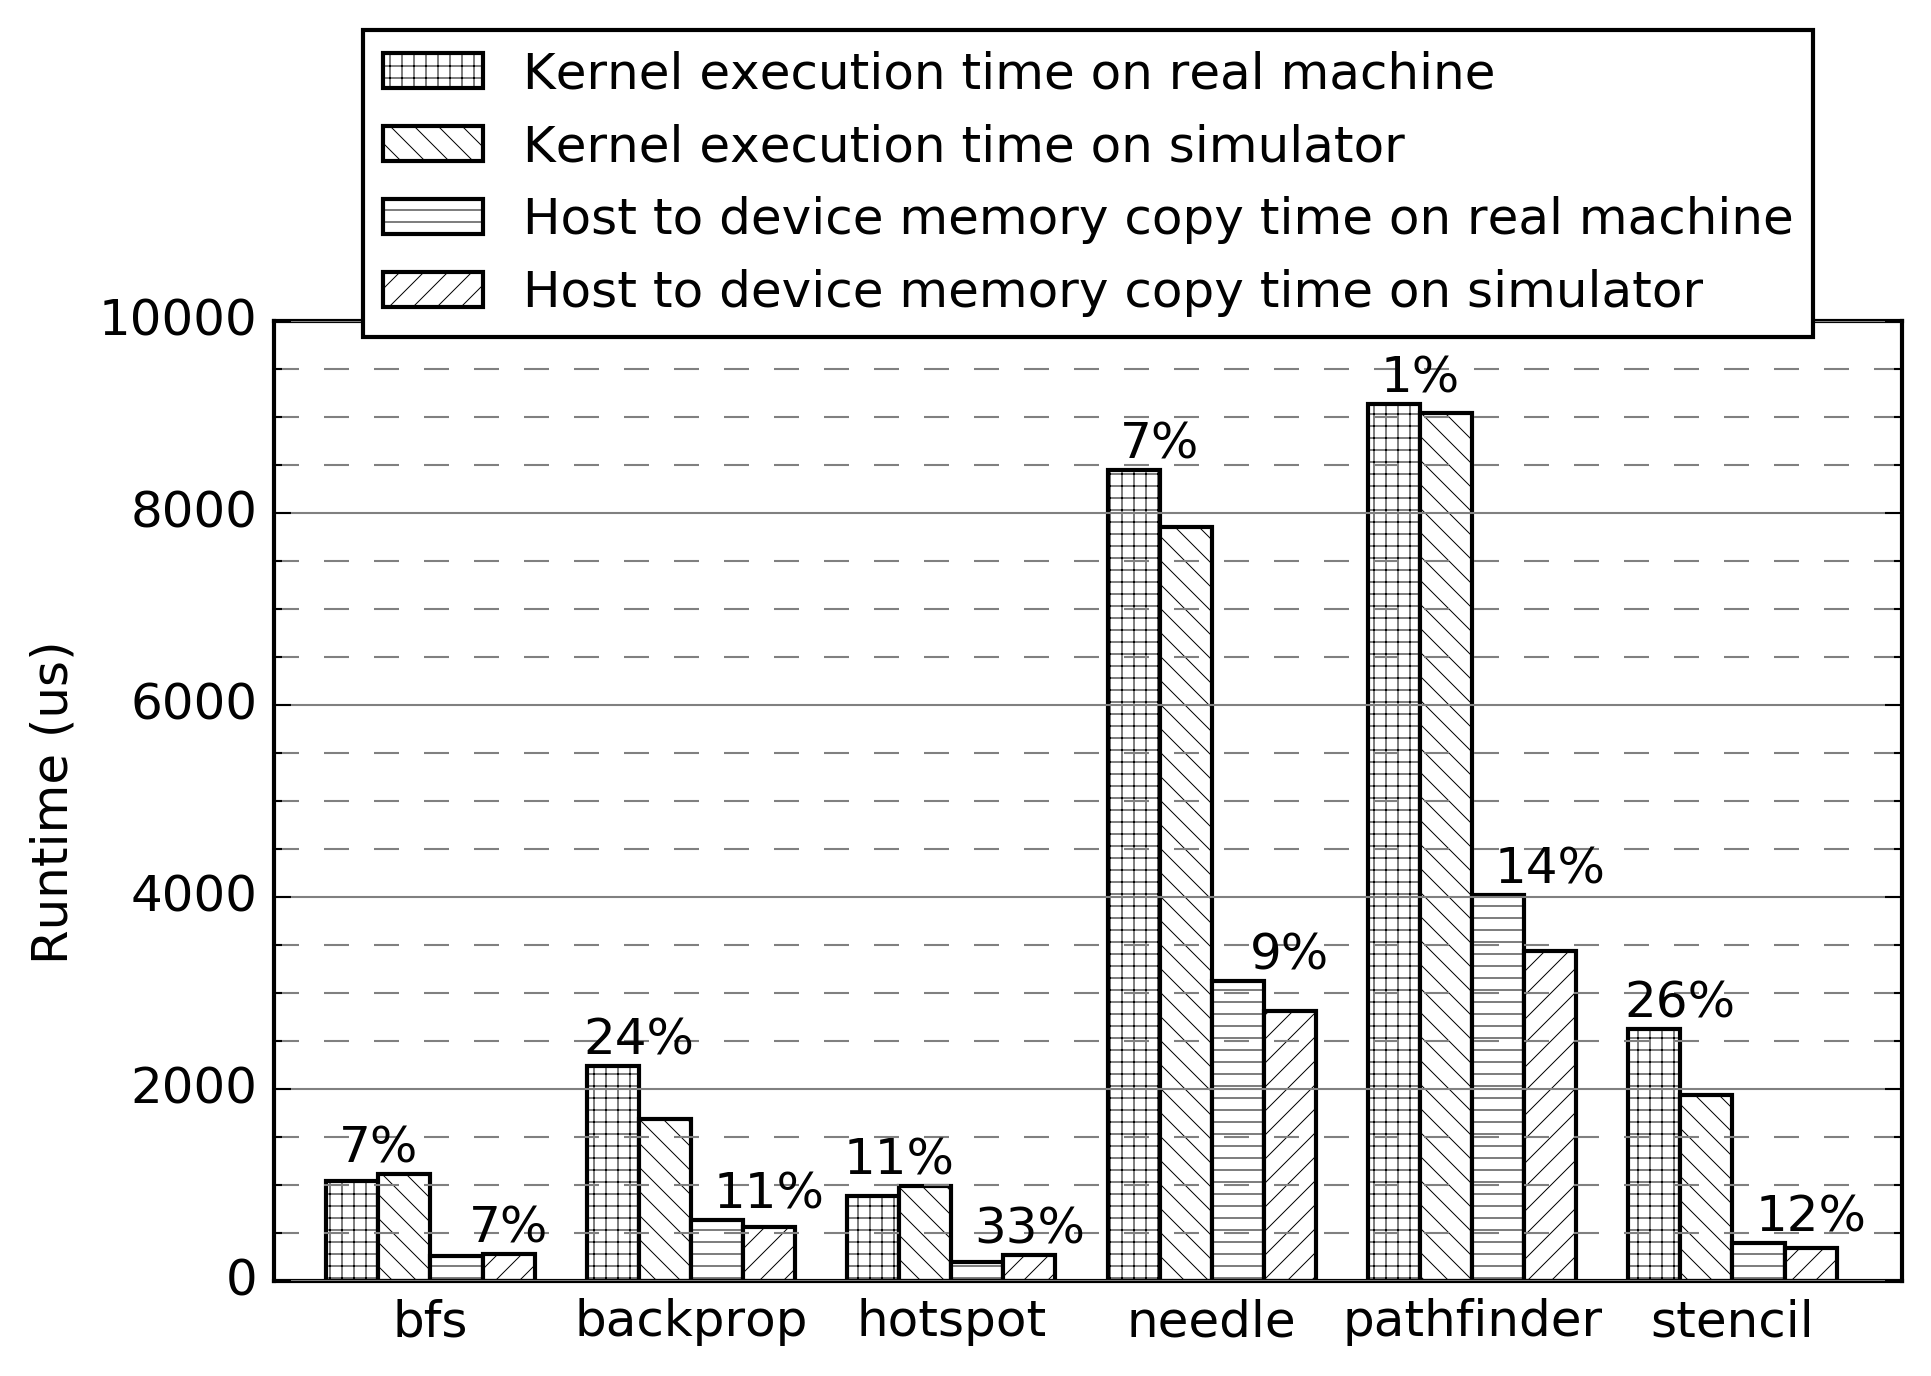
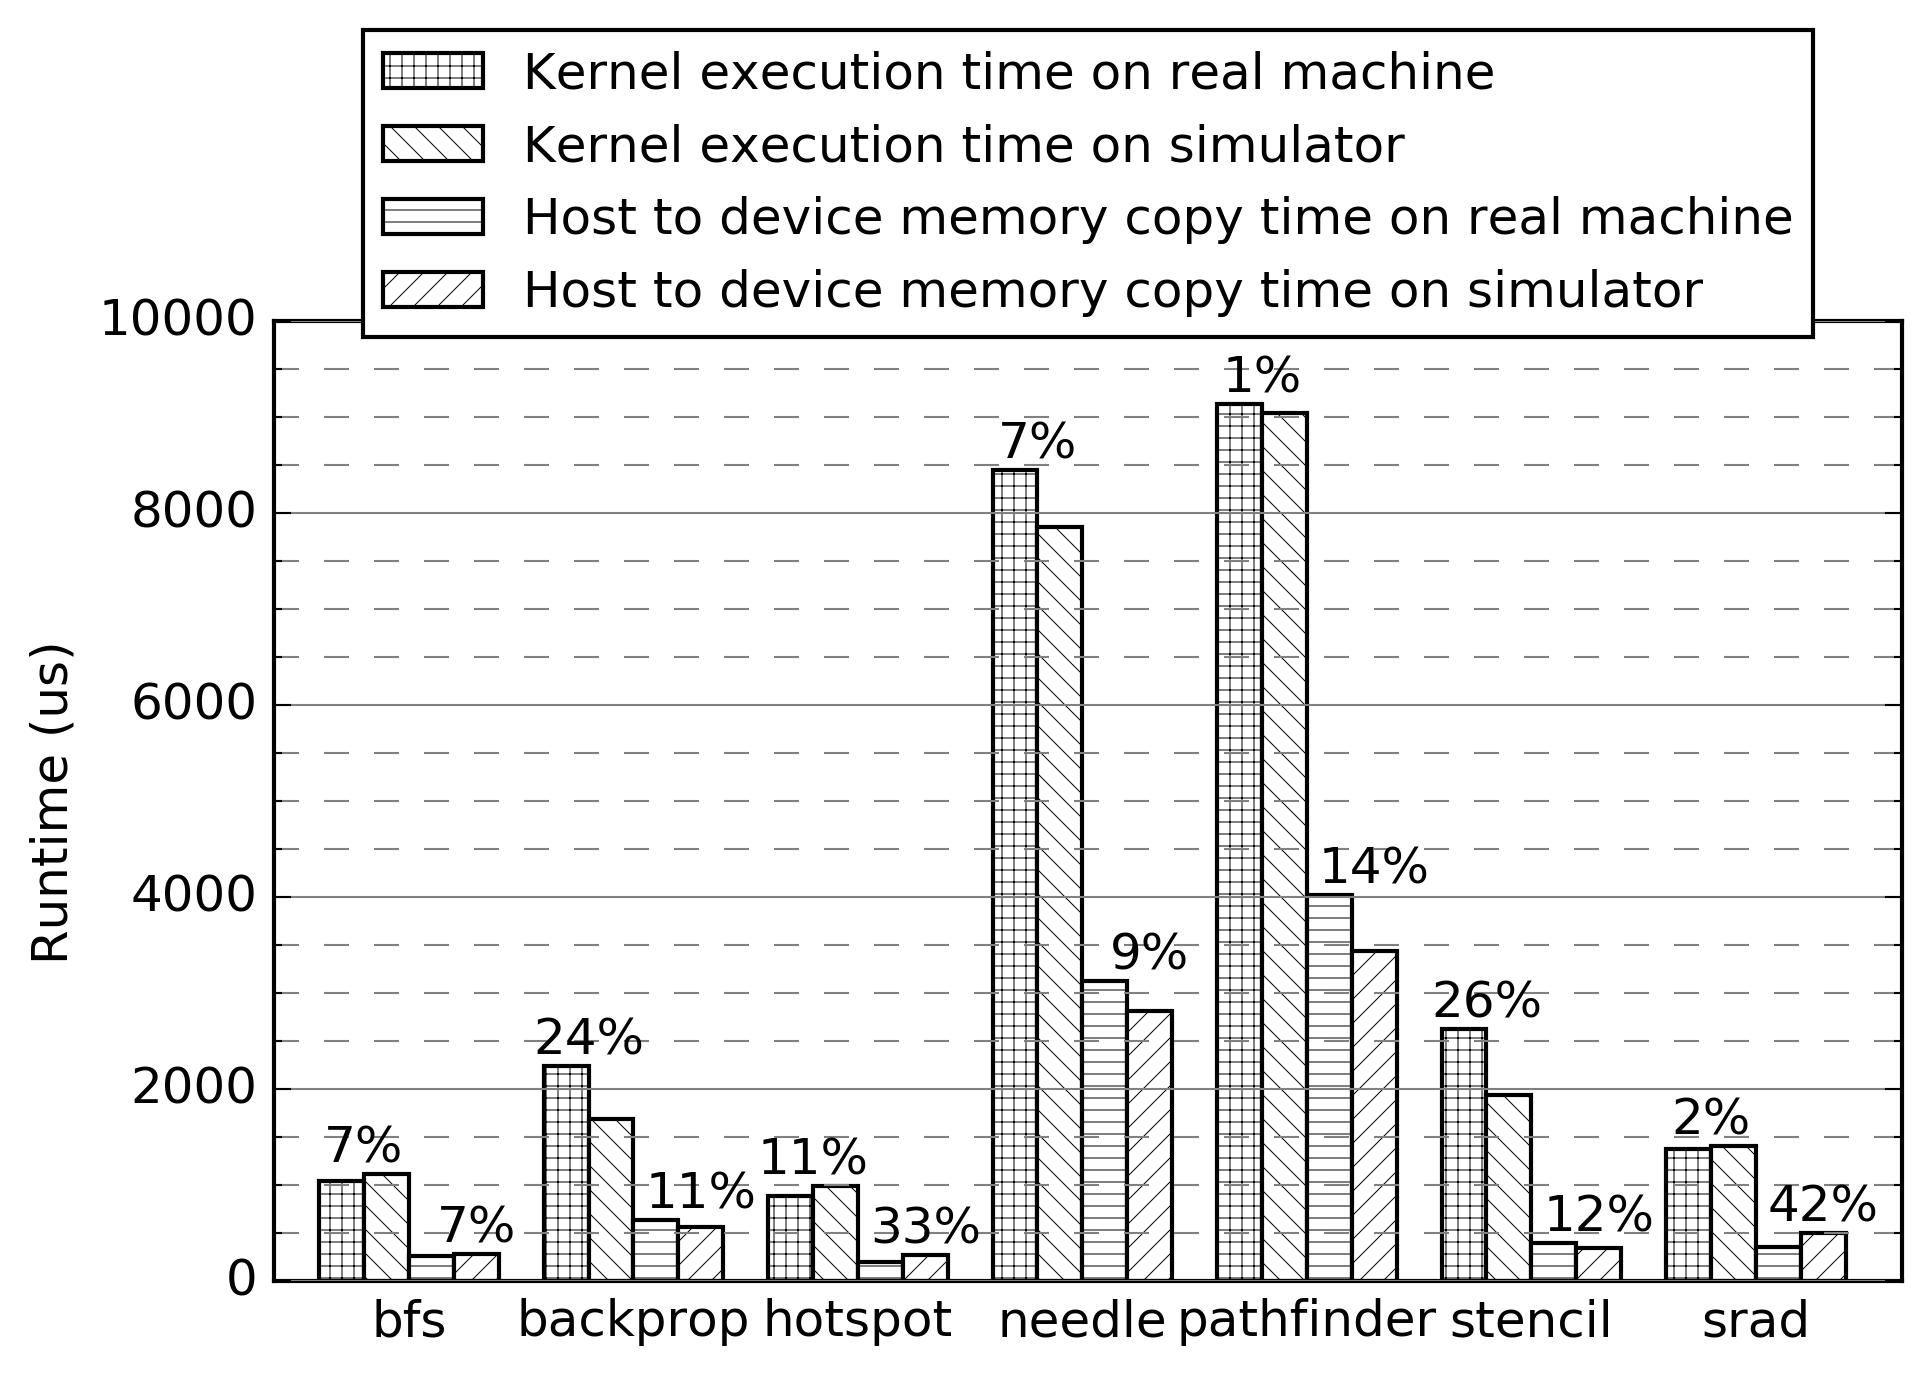
Added log file, updated plot, and script for validation experiment

Changed region(s): [[0.1554, 0.25, 0.9632, 0.9688]]

diff --git a/benchmarks/plots/plot_validation.py b/benchmarks/plots/plot_validation.py
@@ -11,7 +11,7 @@ import matplotlib.pyplot as plt
 parent_folder = '../output_logs'
 experiment_folder = 'Validation'
 sub_folders = ['CRC_Managed', 'Sim_Managed']
-benchmarks = ['bfs', 'backprop', 'hotspot', 'needle', 'pathfinder', 'stencil']
+benchmarks = ['bfs', 'backprop', 'hotspot', 'needle', 'pathfinder', 'stencil', 'srad']
 
 k_s_m = []
 m_s_m = []
@@ -104,7 +104,7 @@ ax.yaxis.grid(b=True, which='major', color='grey', linestyle='-')
 ax.yaxis.grid(b=True, which='minor', color='grey', linestyle='--') 
 plt.minorticks_on()
 
-ax.axes.set_xlim([0,6.25])
+ax.axes.set_xlim([0,7.25])
 
 
 plt.ylabel('Runtime (us)')
